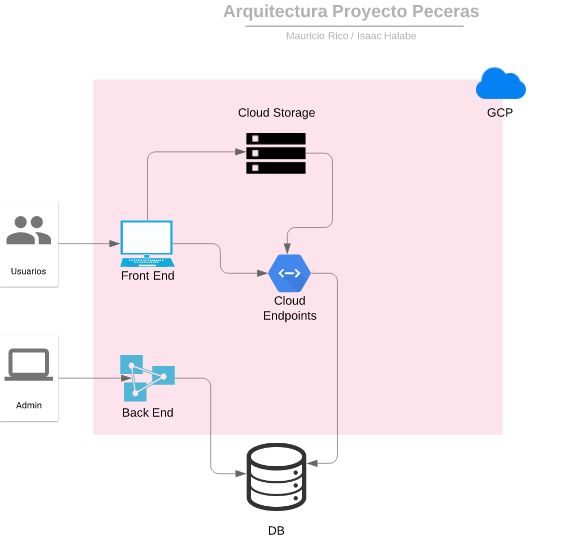
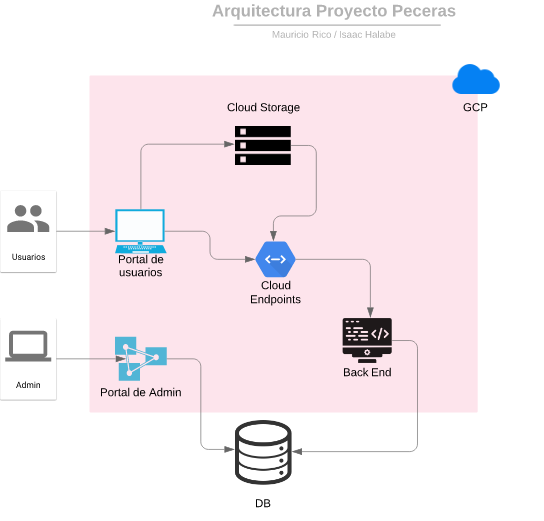
cambio en la arq por lo de la presentacion

diff --git a/README.md b/README.md
@@ -80,21 +80,23 @@ A continuación aparecen descritos los diferentes elementos que forman parte de 
 * Front-End:
     1. Usuario tiene interacción con la aplicación de React (Front).
     2. La aplicación de React interactua con el Storage para utilizar las imagenes de las peceras, las cuales son regresadas mediante el uso de las APIs (Cloud Endpoints)
-    3. Cloud Endpoints Alimenta la base de datos y estos cambios se ven registrados dependiendo del llamado.
+    3. Cloud Endpoints Alimenta la base de datos por medio de la lógica del backend y estos cambios se ven registrados dependiendo del llamado.
 * Back-End:
-    1. Usuario tiene interacción con la aplicación de Laravel (Back).
+    1. Usuario tiene interacción con la aplicación de Laravel como portal para admins (Back).
     2. La aplicación de Laravel mantiene el control de la base de datos para la correcta interacción con el resto del sistema.
+    3. Se enseña la información en el portal de Administrador.
 
 ### 3.2 Descripción de los componentes
 
 * *Usuarios* : Componente que representa a los usuarios que ingresan a la página por parte del portal donde pueden llevar a cabo las funciones regulares de modificación y compra de peceras.
 * *Admin* : Es el componente que al igual que los usuarios representa el punto de acceso pero este es de el administrador del Laravel (backend).
-* *FrontEnd* : El componente representativo de la aplicación de ReactJS, de vista del usuario.
-* *BackEnd* : Componente representativo de la aplicación de Laravel en PHP para la administración detrás de lo que se tiene adelante.
+* *Portal de usuarios* : El componente representativo de la aplicación de ReactJS, de vista del usuario.
+* *Portal de admin* : Componente representativo de la aplicación de Laravel en PHP para la administración detrás de lo que se tiene adelante.
 * *Cloud Endpoints* : Representativo del servicio de los APIs de esta aplicación.
 * *Cloud Storage* : Bucket de almacenamiento para guardar elementos estáticos como las imagenes de las peceras en este caso.
 * *Data Base* : Base de datos propia de la aplicación en SQL.
-* *GCP*: Término general del sistema de Google Cloud Plataform donde se albergan los clusters de Kubernetes y los demás elementos.
+* *GCP* : Término general del sistema de Google Cloud Plataform donde se albergan los clusters de Kubernetes y los demás elementos.
+* *Backend* : Lógica que tiene detrás la aplicación y que conecta las APIs con la base de datos y genera la información pertinente para la aplicación.
 
 ### 3.3 Frontend
 
